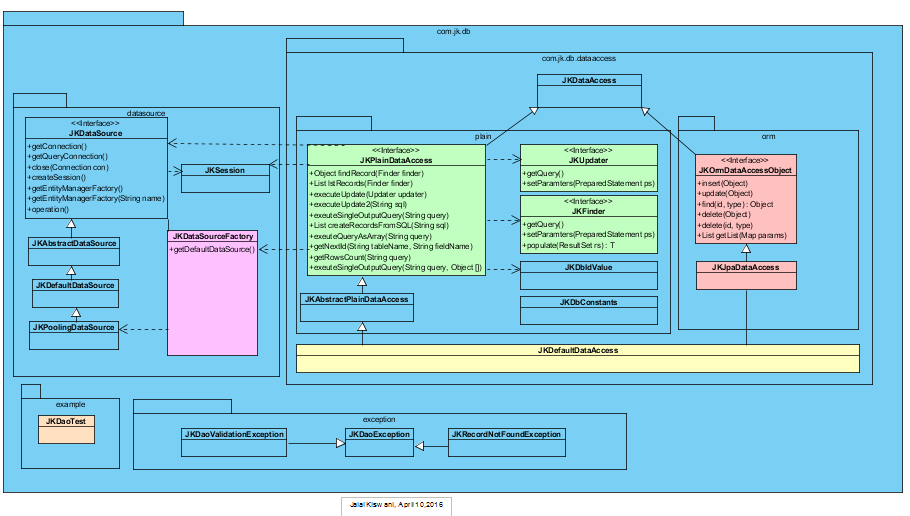
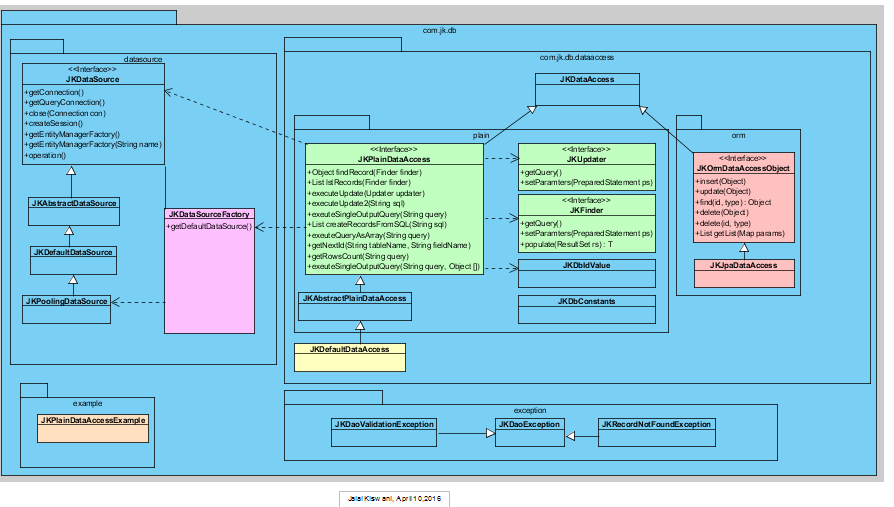
CC

Changed region(s): [[0.0, 0.0, 0.9966, 1.0], [0.2416, 0.2071, 0.2718, 0.2367], [0.1812, 0.1775, 0.2114, 0.2071]]

diff --git a/src/main/java/com/jk/db/example/JKPlainDataAccessExample.java b/src/main/java/com/jk/db/example/JKPlainDataAccessExample.java
@@ -66,6 +66,18 @@ public class JKPlainDataAccessExample {
 		getAllRecordsFromDatabase();
 		findRecordWithId();
 		updateRecord();
+		getAllRecordsFromDatabaseAsObjects();
+	}
+
+	private static void getAllRecordsFromDatabaseAsObjects() {
+		logger.info("get all records as objects");
+
+		String instanceVariables = "id,name,salary";
+		String query = "SELECT * FROM employees ";
+		List<Employee> list = dataAccess.executeQueryAsObjectList(Employee.class, instanceVariables, query);
+		for (Employee employee : list) {
+			System.out.println(ObjectUtil.toString(employee));	
+		}
 	}
 
 	private static void updateRecord() {
@@ -76,10 +88,12 @@ public class JKPlainDataAccessExample {
 
 	private static Employee findRecordWithId() {
 		logger.info("find adam record with id 5");
-		String instanceOrder = "id,name,salary";
-		Employee adam = dataAccess.executeQueryAsSingleObject(Employee.class, instanceOrder, "SELECT * FROM employees WHERE id=? ", 5);
-		System.out.println(ObjectUtil.toString(adam));
-		return adam;
+
+		String instanceVariables = "id,name,salary";
+		String query = "SELECT * FROM employees WHERE id=? ";
+		Employee emp = dataAccess.executeQueryAsSingleObject(Employee.class, instanceVariables, query, 5);
+		System.out.println(ObjectUtil.toString(emp));
+		return emp;
 	}
 
 	private static void getAllRecordsFromDatabase() {

diff --git a/README.md b/README.md
@@ -18,7 +18,6 @@ Light JDBC API for simplifying database driven development with Java. It is stra
         <artifactId>maven-compiler-plugin</artifactId>
         <version>3.3</version>
         <configuration>
-          <!-- http://maven.apache.org/plugins/maven-compiler-plugin/ -->
           <source>1.7</source>
           <target>1.7</target>
         </configuration>
@@ -30,6 +29,8 @@ Light JDBC API for simplifying database driven development with Java. It is stra
 	db-url=jdbc:mysql://localhost:3306/app
 	db-user=root
 	db-password=123456
+	# The below used to for JPA entities packages for auto. scanning of entities
+	# db-entities-packages=com.jk
 
 __Note:  the above config file is optional and also the above configurations are already the defaults, so no need to set it up. :)__ 
 Thats it , now you can start us the API , have a look at the example sections for more details on the API 	
@@ -51,39 +52,55 @@ To be able to run the examples , create table in the database with the below str
 
 ### Dumping table contents as string
 	
-		JKDefaultDao dao=new JKDefaultDao();
-		String rows=dao.executeQueryAsString("SELECT * FROM employees");
+		JKPlainDataAccess dataAccess = JKDataSourceFactory.getPlainDataAccess();
+		String rows = dataAccess.executeQueryAsString("SELECT * FROM employees");
 		System.out.println(rows);
 		
 ### Execute data manipulation statement (insert,update or delete)
 
-		JKDefaultDao dao=new JKDefaultDao();
-		dao.executeUpdate("UPDATE employees SET salary=?",1000);
-		
+		JKPlainDataAccess dataAccess = JKDataSourceFactory.getPlainDataAccess();
+		dataAccess.execute("DELETE FROM employees");
+		dataAccess.execute("INSERT INTO employees(id,name,salary) VALUES(?,?,?)", id, name, salary);		
+		dataAccess.execute("UPDATE employees SET salary=? WHERE id=?", newSalary, id);
+
+### Find row by id and populate in object
+
+		String query = "SELECT * FROM employees WHERE id=? ";
+		String instanceVariables = "id,name,salary";		
+		Employee emp = dataAccess.executeQueryAsSingleObject(Employee.class, instanceVariables, query, id);
+
+### Find rows list and populate in List of objects
+
+		JKPlainDataAccess dataAccess = JKDataSourceFactory.getPlainDataAccess();
+		String instanceVariables = "id,name,salary";
+		String query = "SELECT * FROM employees ";		
+		List<Employee> list = dataAccess.executeQueryAsObjectList(Employee.class, instanceVariables, query);		
+	
 ### Execute single output query
 	
-		JKDefaultDao dao=new JKDefaultDao();
-		Object max =  dao.exeuteSingleOutputQuery("SELECT MAX(salary) FROM employees");
+		JKPlainDataAccess dataAccess = JKDataSourceFactory.getPlainDataAccess();
+		Object max =  dataAccess.exeuteSingleOutputQuery("SELECT MAX(salary) FROM employees");
 		System.out.println(max);
 		
-### Exeute query and get the results as array:
+### Execute query and get the results as array:
 
-		JKDefaultDao dao=new JKDefaultDao();
+		JKPlainDataAccess dataAccess = JKDataSourceFactory.getPlainDataAccess();
 		Object[] allRows = dao.exeuteQueryAsArray("SELECT * FROM employees");
 		for (Object record: allRows) {
 			Object[] row=(Object[])record;
 			System.out.println(String.format("Id: %s , Name: %s, Salary: %s",row[0],row[1],row[2]));
 		}
 
-### Get System date from database
+### Get System date from database to insure integrity of the system
 
-		JKDefaultDao dao=new JKDefaultDao();
+		JKPlainDataAccess dataAccess = JKDataSourceFactory.getPlainDataAccess();
 		System.out.println(dao.getSystemDate());
 
+## Advanced 
 ### Execute query and load object using JKFinder
 
 		public Employee findEmployee(final int id) {
-		return (Employee)dao.findRecord(new JKFinder() {
+		return dataAccess.findRecord(new JKFinder() {
 
 			@Override
 			public void setParamters(PreparedStatement ps) throws SQLException {
@@ -109,7 +126,7 @@ To be able to run the examples , create table in the database with the below str
 ## Execute query and load the results into List of objects using JKFinder
 
 		public List getAllEmployees() {
-		return dao.lstRecords(new JKFinder() {
+		return dataAccess.getList(new JKFinder() {
 
 			@Override
 			public void setParamters(PreparedStatement ps) throws SQLException {
@@ -134,7 +151,7 @@ To be able to run the examples , create table in the database with the below str
 ### Execute data-manipulation using using Updater
 
 		public  int insert(final Employee emp) {
-		return dao.executeUpdate(new JKUpdater() {
+		return dataAccess.executeUpdate(new JKUpdater() {
 
 			@Override
 			public void setParamters(PreparedStatement ps) throws SQLException {
